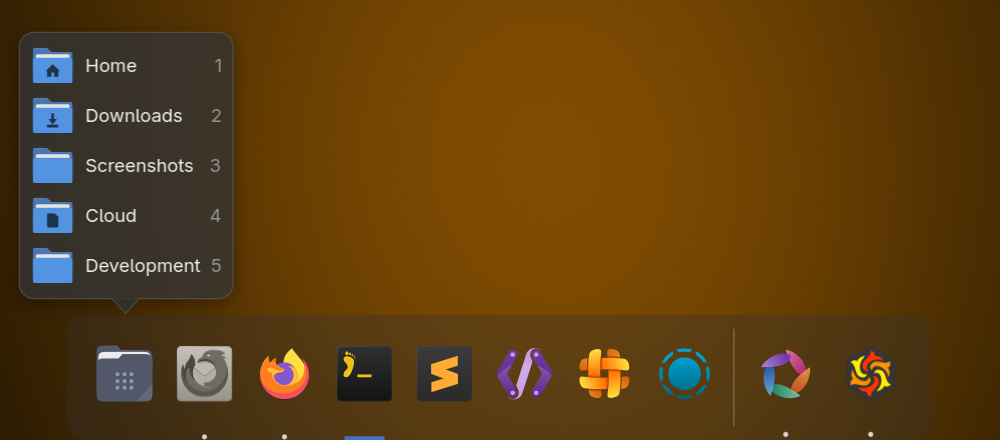
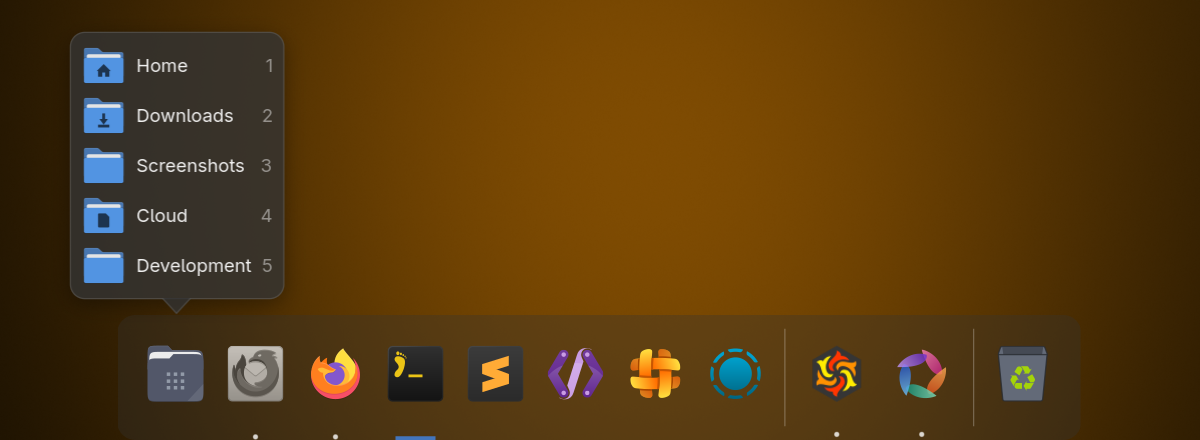
Refresh README screenshots and add the trash menu

diff --git a/README.md b/README.md
@@ -8,6 +8,8 @@ wf-dock-plus is an unofficial project. It is not affiliated with or endorsed by 
 
 ![The dock with the window list of Firefox open](gallery/dock-window-list.png)
 
+![The dock with its trash menu open](gallery/dock-trash.png)
+
 ## Features
 
 - **Pinned launchers** left of the running apps, separated by a thin line. Entries are desktop file ids, absolute paths to `.desktop` files, or custom launchers with their own command, icon and label.
